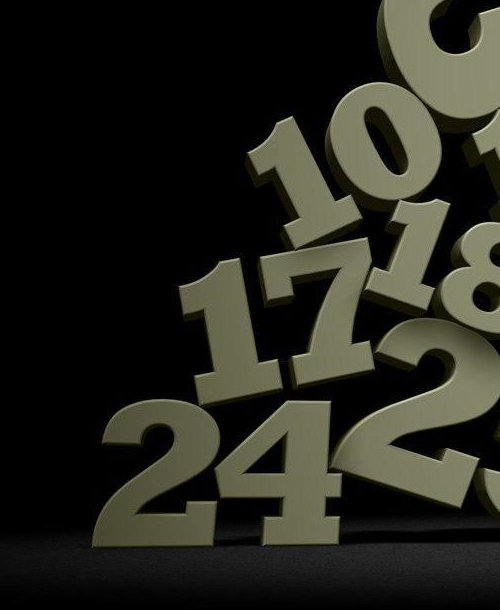
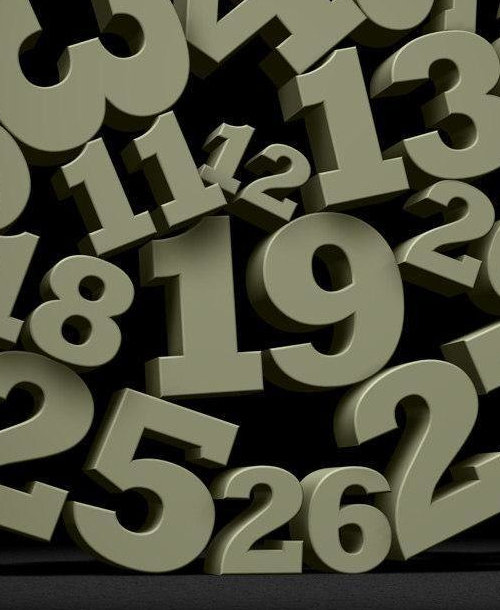
new backgrounds, cleaned HTML, reworded some js variables

diff --git a/index.html b/index.html
@@ -5,12 +5,14 @@
   <meta charset="UTF-8">
   <meta name="viewport" content="width=device-width, initial-scale=1.0">
   <meta http-equiv="X-UA-Compatible" content="ie=edge">
+  <meta name="description"
+    content="My name is Nate Moscato, This is a simple calculator that I built. It uses HTML, CSS, and vanilla JavaScript to do all the deeds. It checks for correct evaluation, and will display the expression just used.">
   <link rel="preconnect" href="https://fonts.googleapis.com">
   <link rel="preconnect" href="https://fonts.gstatic.com" crossorigin>
   <link href="https://fonts.googleapis.com/css2?family=Chakra+Petch&family=Dancing+Script&display=swap"
     rel="stylesheet">
-  <link rel="stylesheet" href="styles/page-reset.css">
   <link rel="stylesheet" href="styles/styles.css">
+  <link rel="stylesheet" href="styles/page-reset.css">
   <title>My Calculator</title>
   <link rel="icon" href="img/logo.png" type="image/x-icon" />
 </head>
@@ -25,7 +27,7 @@
     <h1>A Calculator Done By Me</h1>
     <div class="container">
       <div class="output-entered">
-        <!-- will be shot in -->
+        <!-- expression will be shot in -->
       </div>
       <form class="calculator" name="calculator">
         <input class="output" name="output" disabled>
@@ -42,31 +44,31 @@
           </div>
           <div class="btn-group">
             <input type="button" class="back-btn" value="Del">
-            <input type="button" class="btn" id="btn-1" value="(">
-            <input type="button" class="btn" id="btn-2" value=")">
-            <input type="button" class="btn" id="add-btn" value="+">
+            <input type="button" class="btn" value="(">
+            <input type="button" class="btn" value=")">
+            <input type="button" class="btn" value="+">
           </div>
           <div class="btn-group">
-            <input type="button" class="btn" id="btn-1" value="1">
-            <input type="button" class="btn" id="btn-2" value="2">
-            <input type="button" class="btn" id="btn-3" value="3">
-            <input type="button" class="btn" id="sub-btn" value="-">
+            <input type="button" class="btn" value="1">
+            <input type="button" class="btn" value="2">
+            <input type="button" class="btn" value="3">
+            <input type="button" class="btn" value="-">
           </div>
           <div class="btn-group">
-            <input type="button" class="btn" id="btn-4" value="4">
-            <input type="button" class="btn" id="btn-5" value="5">
-            <input type="button" class="btn" id="btn-6" value="6">
-            <input type="button" class="btn" id="mult-btn" value="*">
+            <input type="button" class="btn" value="4">
+            <input type="button" class="btn" value="5">
+            <input type="button" class="btn" value="6">
+            <input type="button" class="btn" value="*">
           </div>
           <div class="btn-group">
-            <input type="button" class="btn" id="btn-7" value="7">
-            <input type="button" class="btn" id="btn-8" value="8">
-            <input type="button" class="btn" id="btn-9" value="9">
-            <input type="button" class="btn" id="div-btn" value="/">
+            <input type="button" class="btn" value="7">
+            <input type="button" class="btn" value="8">
+            <input type="button" class="btn" value="9">
+            <input type="button" class="btn" value="/">
           </div>
           <div class="btn-group">
-            <input type="button" class="btn" id="btn-0" value="0">
-            <input type="button" class="btn" id="dec-btn" value=".">
+            <input type="button" class="btn" value="0">
+            <input type="button" class="btn" value=".">
             <input type="button" class="equals-btn" value="=">
           </div>
         </div>
@@ -78,7 +80,7 @@
         <p>Why? Because...why not? Yeah, there's calculators in literally everything now, but I
           didn't build those. I built this one. It can perform some basic math: add, subtract, multiply and divide.
         </p>
-        <p>The most recent expression used will show up. If something
+        <p>The most recent expression used will display. If something
           doesn't evaluate, it will tell you.</p>
       </div>
     </div>
@@ -89,7 +91,7 @@
     </div>
     <span>&copy; August 2023</span>
   </footer>
-  <script src="scripts/calculations.js" charset="utf-8"></script>
+  <script src="scripts/script.js" charset="utf-8"></script>
   <script src="https://kit.fontawesome.com/5dd3e4fc9a.js" crossorigin="anonymous" defer></script>
 </body>
 

diff --git a/styles/styles.css b/styles/styles.css
@@ -97,10 +97,11 @@ body {
   bottom: 5px;
   font-family: 'Dancing Script', cursive;
   font-weight: bold;
-  left: 0;
+  left: 10px;
   position: absolute;
-  text-align: center;
-  width: 100%;
+  right: 10px;
+  text-align: right;
+  /* width: 100%; */
   /* outline: solid 1px red; */
 }
 
@@ -196,39 +197,43 @@ footer {
 .main {
   -ms-flex-align: center;
   -ms-flex-direction: column;
-  -ms-flex-pack: center;
+  -ms-flex-pack: space-evenly;
   -webkit-box-align: center;
   -webkit-box-direction: normal;
   -webkit-box-orient: vertical;
-  -webkit-box-pack: center;
+  -webkit-box-pack: space-evenly;
   align-items: center;
   background-attachment: fixed;
   background-image: -webkit-gradient(linear,
-      left bottom, left top,
+      left top, left bottom,
       from(rgba(0, 0, 0, 1)),
-      to(rgba(0, 0, 0, 0))),
-    url("../img/numbers-background-alt.webp");
-  background-image: linear-gradient(0deg,
+      to(rgba(0, 0, 0, 0.25))),
+    url("../img/numbers-background.webp");
+  background-image: linear-gradient(180deg,
       rgba(0, 0, 0, 1),
-      rgba(0, 0, 0, 0)),
-    url("../img/numbers-background-alt.webp");
+      rgba(0, 0, 0, 0.25)),
+    url("../img/numbers-background.webp");
   background-position: center;
   background-size: cover;
   display: -ms-flexbox;
   display: -webkit-box;
   display: flex;
   flex-direction: column;
-  justify-content: center;
+  justify-content: space-evenly;
   min-height: 100%;
   /* outline: solid 1px red; */
 }
 
 .main h1 {
+  border-bottom: solid 2px #FF0000;
   color: #fff;
   font-weight: normal;
   font-size: 30px;
-  margin-bottom: 50px;
+  margin: 0 0 50px 0;
+  text-align: center;
   text-shadow: 0 2px 5px #000;
+  width: 400px;
+  /* outline: solid 1px blue; */
 }
 
 .output {
@@ -241,7 +246,6 @@ footer {
   margin: 0 auto;
   padding: 5px 15px;
   width: 95%;
-  /* width: 210px; */
   /* outline: solid 1px blue; */
 }
 
@@ -342,7 +346,8 @@ footer {
 
   .main h1 {
     font-size: 24px;
-    margin-bottom: 55px;
+    margin: 20px 0 60px 0;
+    width: 300px;
   }
 
   .output-entered-action {
@@ -357,7 +362,7 @@ footer {
   }
 
   .container {
-    padding: 20px 0;
+    padding: 20px 0 0 0;
     width: 100%;
   }
 
@@ -369,18 +374,19 @@ footer {
 
   .main {
     background-image: -webkit-gradient(linear,
-        left bottom, left top,
+        left top, left bottom,
         from(rgba(0, 0, 0, 1)),
-        to(rgba(0, 0, 0, 0))),
+        to(rgba(0, 0, 0, 0.25))),
       url("../img/numbers-background-mobile.webp");
-    background-image: linear-gradient(0deg,
+    background-image: linear-gradient(180deg,
         rgba(0, 0, 0, 1),
-        rgba(0, 0, 0, 0)),
+        rgba(0, 0, 0, 0.25)),
       url("../img/numbers-background-mobile.webp");
   }
 
   .main h1 {
     font-size: 22px;
+    width: 90%;
   }
 
   .output-entered {

diff --git a/scripts/script.js b/scripts/script.js
@@ -4,16 +4,16 @@ const outputEntered = document.querySelector('.output-entered');
 const clearButton = document.querySelector('.clear-btn');
 let buttons = document.querySelectorAll('.btn');
 
-function insert(num) {
-  document.calculator.output.value = document.calculator.output.value + num;
+function insert(number) {
+  document.calculator.output.value = document.calculator.output.value + number;
 }
 
 function back() {
-  const num = document.calculator.output.value;
-  document.calculator.output.value = num.substring(0, num.length - 1);
+  const expression = document.calculator.output.value;
+  document.calculator.output.value = expression.substring(0, expression.length - 1);
 }
 
-function equals() {
+function evaluate() {
   const expression = document.calculator.output.value;
   try {
     eval(expression);
@@ -21,8 +21,8 @@ function equals() {
       return document.calculator.output.value = 'Empty Input...'
     } else {
       outputEntered.innerHTML = `
-      <span>Expression :</span>
-      <p>${document.calculator.output.value}</p>
+        <span>Expression Used :</span>
+        <p>${document.calculator.output.value}</p>
       `;
       outputEntered.classList.add('output-entered-action');
       return document.calculator.output.value = eval(expression);
@@ -30,7 +30,7 @@ function equals() {
   }
   catch (error) {
     // console.log(error);
-    return document.calculator.output.value = 'Not Valid...';
+    return document.calculator.output.value = 'Invalid Input...';
   }
 }
 
@@ -50,5 +50,5 @@ backButton.addEventListener('click', () => {
 });
 
 equalsButton.addEventListener('click', () => {
-  equals();
+  evaluate();
 });
